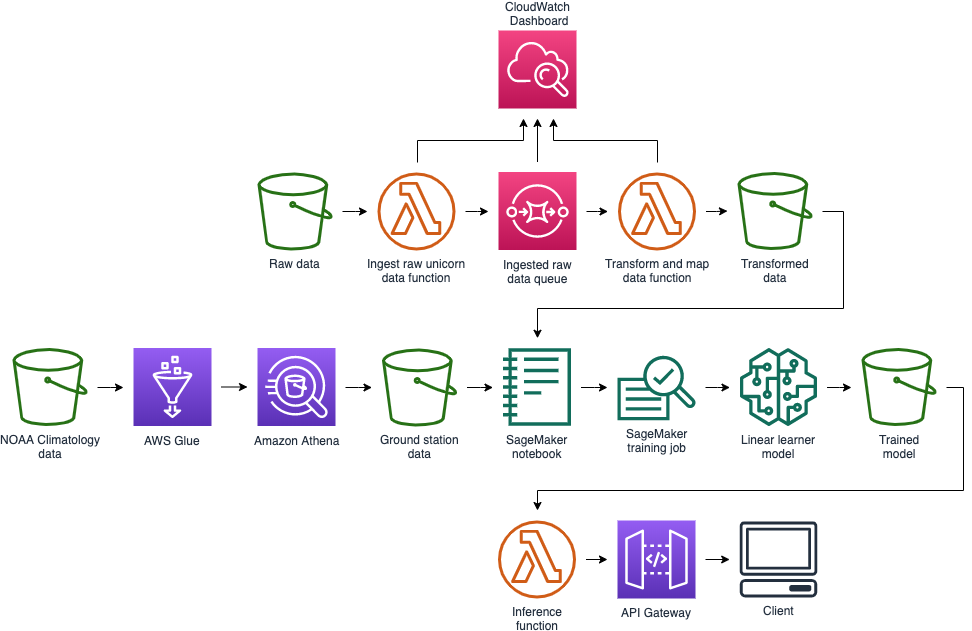
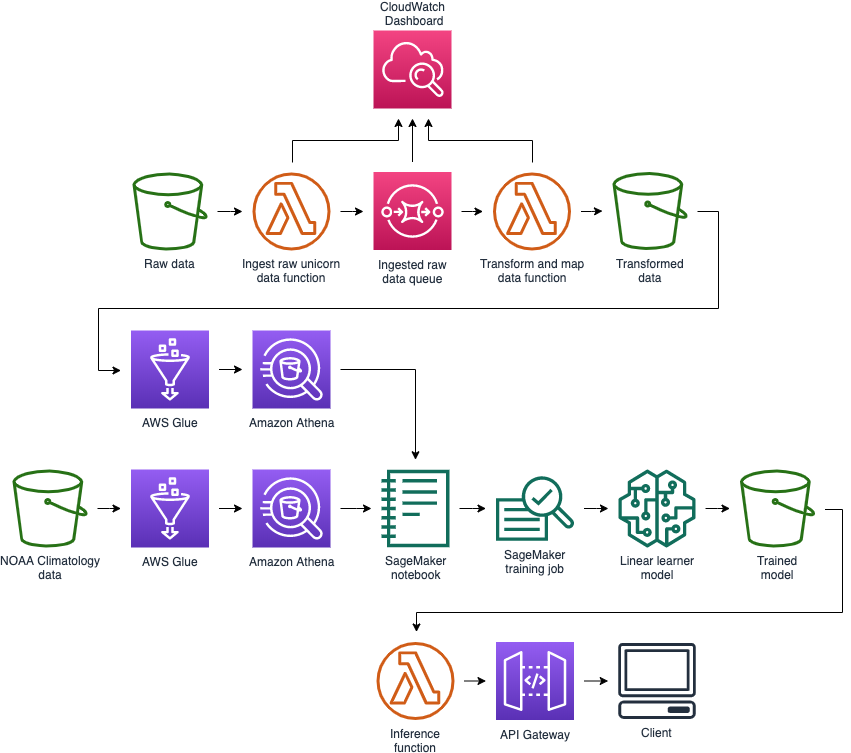
Updating documentation

Changed region(s): [[0.0, 0.0, 1.0, 0.7829], [0.4277, 0.7829, 0.8555, 1.0], [0.4277, 0.4818, 0.4888, 0.5119]]

diff --git a/MachineLearning/2_ModelBuilding/README.md b/MachineLearning/2_ModelBuilding/README.md
@@ -6,7 +6,7 @@
 
 Amazon SageMaker provides an integrated Jupyter notebook instance for easy access to your data sources for exploration and analysis. It also provides common machine learning algorithms that are optimized to run efficiently against extremely large data in a distributed environment. During this lab you'll be asked to import data from multiple sources, manipulate the data, and format it to the syntax required to take advantage of the built in SageMaker provided algorithms. This will all be completed within a SageMaker notebook.
 
-![Architecture diagram](assets/WildRydesML_3.png)
+![Architecture diagram](assets/WildRydesML_2.png)
 
 Within the notebook we willl take advantage of Amazon Athena to query data directly from S3.  Amazon Athena is a serverless query service allowing our entire data prep and training process to avoid provisioning any servers.  Amazon Athena will enable us to query the data we processed earlier as well as query a [public weather dataset](https://docs.opendata.aws/noaa-ghcn-pds/readme.html).  Finally we'll transform our Amazon Athena query results into Python dataframes to server as inputs into training our data model.
 
